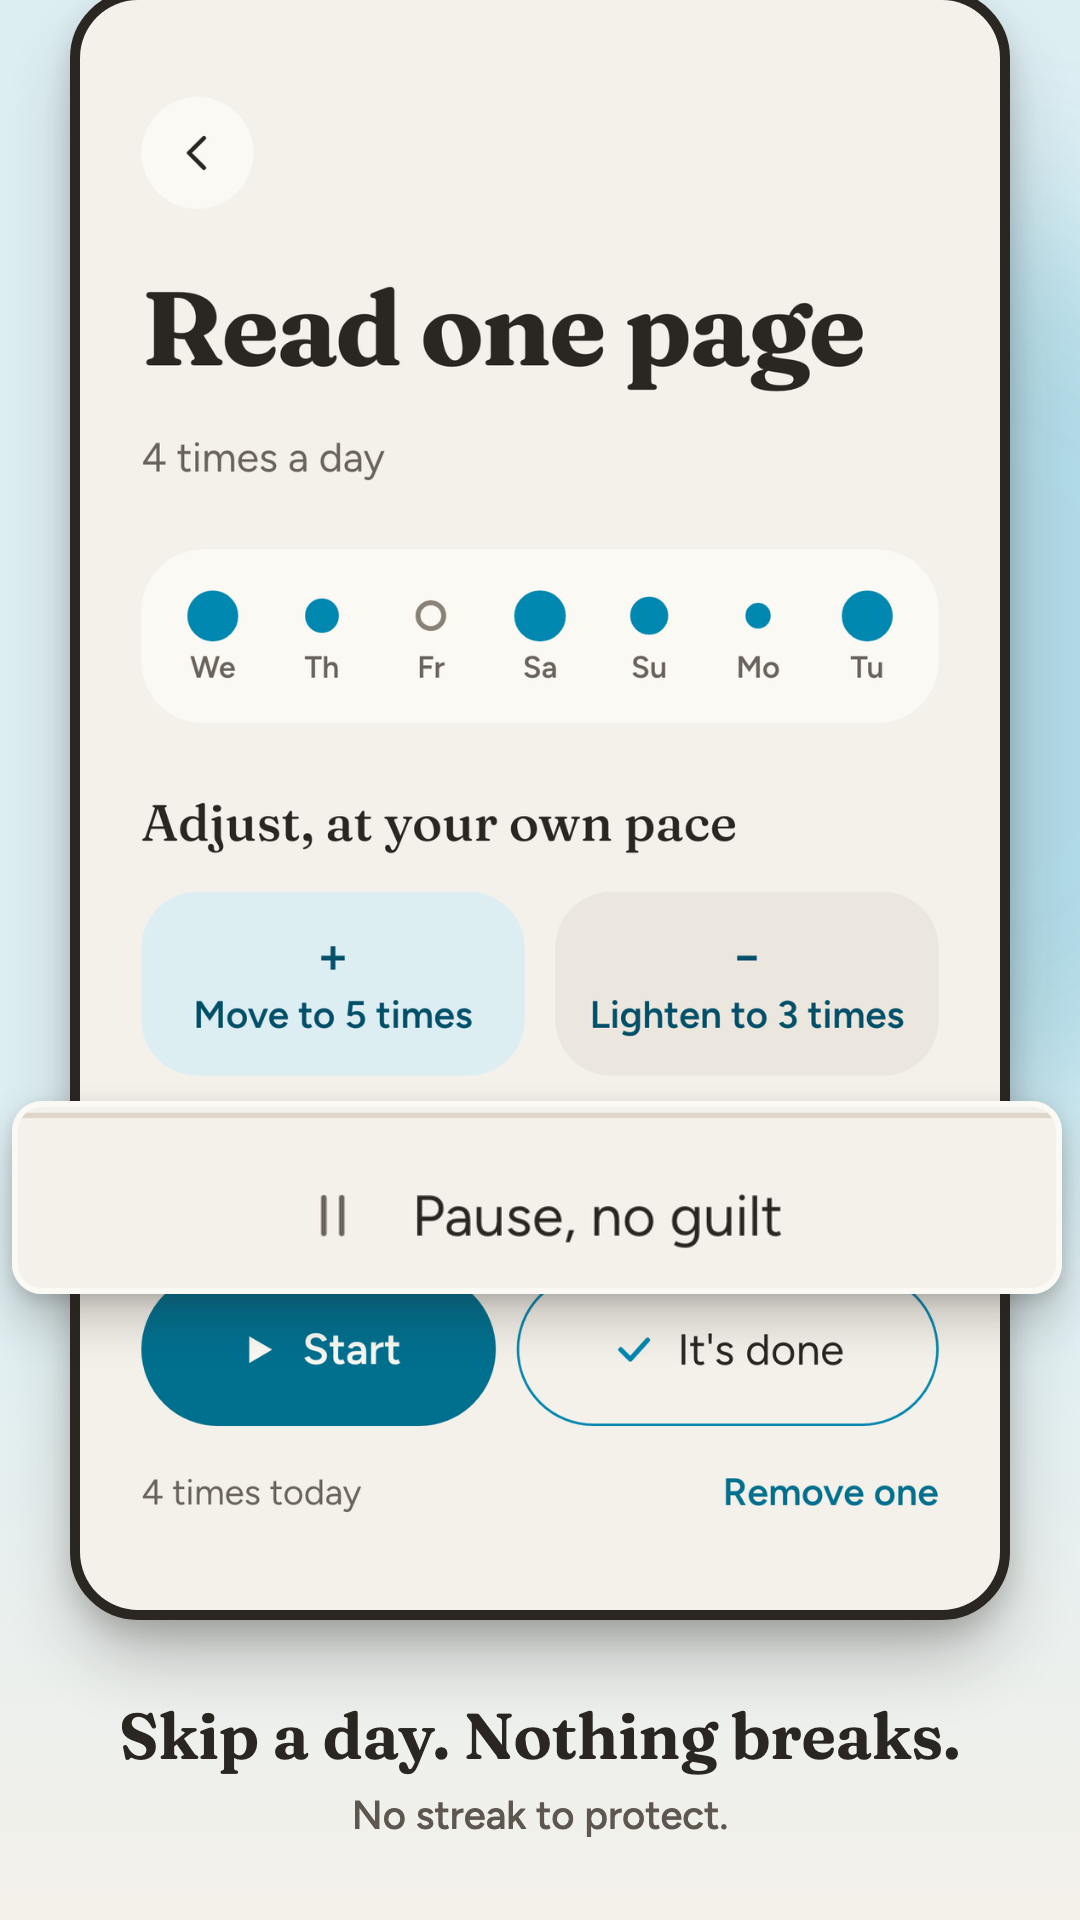
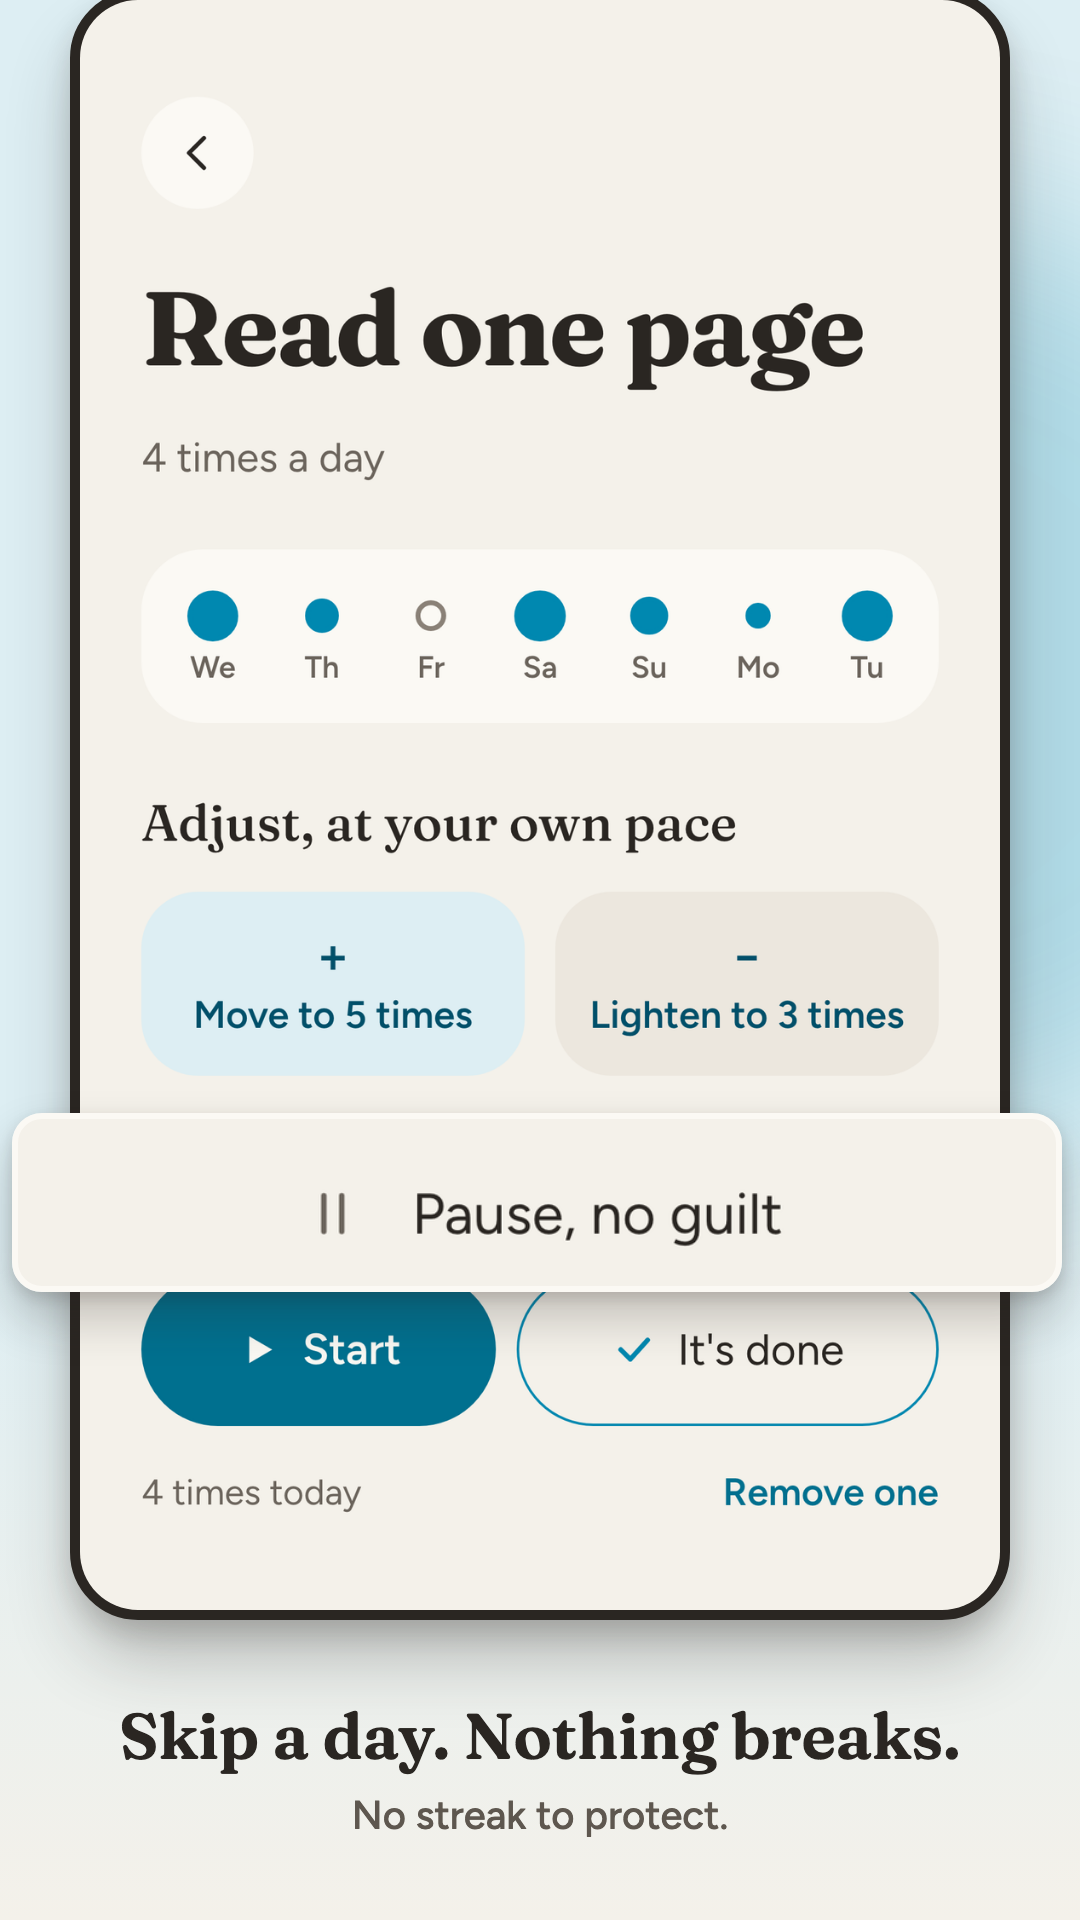
S49: tile tests pin headline measuring, callout lens and bottom shift
The callout clamp is gone; captures and the caption band get their own
ink thresholds; the 02 callout drops the divider line; the subline gets
the same no-break space as the headline.

diff --git a/store/listing/build_store_tiles.py b/store/listing/build_store_tiles.py
@@ -13,9 +13,10 @@ off the bottom edge and shows its status bar; "bottom" puts the caption, centred
 in its band, under the phone, which is cropped by the top edge. `crop` is the
 callout's rectangle in capture pixels and `zoom` its enlargement over the
 phone's own scale. The callout is a lens: it is centred on the source rectangle
-it was cropped from and so hides it (clamped to stay on the tile, clear of the
-caption band). Headlines are measured in Chrome: at most two lines and never a
-lone word on the last one.
+it was cropped from and so hides it. It is never moved: a crop whose callout
+would leave the tile or enter the caption band is refused by the tests.
+Headlines are measured in Chrome: at most two lines and never a lone word on
+the last one.
 
 This script never captures the app. The tiles are the listing's output, the raw
 captures are only their input; `build_screenshots.py` owns the captures.
@@ -55,12 +56,14 @@ SCREEN_RADIUS = 58
 SCREEN_W = PHONE_W - 2 * FRAME
 SCALE = SCREEN_W / CAPTURE_W
 CALLOUT_BORDER = 6
-SHADOW_REACH = 80
-CALLOUT_EDGE = 8
+CALLOUT_SHADOW_DY = 26
+CALLOUT_SHADOW_BLUR = 48
+SHADOW_REACH = CALLOUT_SHADOW_DY + CALLOUT_SHADOW_BLUR
 COPY_SIDE = 48
 VISIBLE_ROWS = (TILE_H - PHONE_TOP - FRAME) * CAPTURE_W // SCREEN_W
 CAPTURE_TIMEOUT = 90
-INK_DEVIATION = 100
+CAPTURE_INK_DEVIATION = 60
+BAND_INK_DEVIATION = 100
 INK_MIN_PIXELS = 3
 
 SAND = "#F4F1EA"
@@ -83,7 +86,7 @@ TILES = {
         Tile("01-aujourdhui", "01-aujourdhui", 0, "Un petit pas suffit.", "Pas de série, pas de pression.",
              "top", (125, 1075, 985, 1303), 1.4),
         Tile("02-detail", "02-detail", 30, "Un jour sans ? Rien ne casse.", "Aucune série à protéger.",
-             "bottom", (102, 1360, 972, 1512), 1.4),
+             "bottom", (102, 1372, 972, 1512), 1.4),
         Tile("03-semaine", "04-semaine", 0, "Votre rythme, pas le nôtre.", "Plus ou moins : vous décidez.",
              "top", (112, 1190, 968, 1392), 1.4),
         Tile("04-rituel", "03-rituel", 0, "Un moment pour vous.", "Arrêter n'est pas échouer.",
@@ -97,7 +100,7 @@ TILES = {
         Tile("01-aujourdhui", "01-aujourdhui", 0, "One small step is enough.", "No streaks, no pressure.",
              "top", (125, 1075, 985, 1303), 1.4),
         Tile("02-detail", "02-detail", 30, "Skip a day. Nothing breaks.", "No streak to protect.",
-             "bottom", (102, 1360, 972, 1512), 1.4),
+             "bottom", (102, 1372, 972, 1512), 1.4),
         Tile("03-semaine", "04-semaine", 0, "Your pace, not ours.", "More or less: you decide.",
              "top", (112, 1280, 968, 1480), 1.4),
         Tile("04-rituel", "03-rituel", 0, "A moment for yourself.", "Stopping isn't failing.",
@@ -138,7 +141,7 @@ MEASURE_HTML = """<!doctype html>
 <div class="copy">{headlines}</div>
 <pre id="out"></pre>
 <script>
-  document.fonts.load("620 96px Fraunces").then(() => {{
+  document.fonts.load("620 64px Fraunces").then(() => {{
     const result = [...document.querySelectorAll(".headline")].map(line => {{
       const tops = [...line.querySelectorAll("span")].map(s => Math.round(s.getBoundingClientRect().top));
       const last = Math.max(...tops);
@@ -226,7 +229,7 @@ TILE_HTML = """<!doctype html>
     border: {callout_border}px solid {card};
     border-radius: 30px;
     background: url('{shot}') no-repeat {callout_bg_x}px {callout_bg_y}px / {callout_bg_w}px auto;
-    box-shadow: 0 26px 48px rgba({shadow}, .24), 0 6px 14px rgba({shadow}, .14);
+    box-shadow: 0 {callout_shadow_dy}px {callout_shadow_blur}px rgba({shadow}, .24), 0 6px 14px rgba({shadow}, .14);
   }}
 </style>
 <div class="galet"></div>
@@ -316,7 +319,7 @@ def capture_path(locale, name):
     return os.path.join(ROOT, "store", "listing", "screenshots", locale, f"{name}-1080x1920.png")
 
 
-def ink_rows(img):
+def ink_rows(img, deviation=CAPTURE_INK_DEVIATION):
     """One bool per row: does a line of content cross it?
 
     A row is ink when at least a few pixels stand far from the row's median
@@ -330,12 +333,12 @@ def ink_rows(img):
     for y in range(h):
         row = px[y * w:(y + 1) * w]
         median = sorted(row)[w // 2]
-        rows.append(sum(abs(p - median) > INK_DEVIATION for p in row) >= INK_MIN_PIXELS)
+        rows.append(sum(abs(p - median) > deviation for p in row) >= INK_MIN_PIXELS)
     return rows
 
 
 def check_text_band(img):
-    ink = ink_rows(img.crop((0, 0, img.size[0], PHONE_TOP)))
+    ink = ink_rows(img.crop((0, 0, img.size[0], PHONE_TOP)), BAND_INK_DEVIATION)
     last = max((y for y, on in enumerate(ink) if on), default=-1)
     if last + 1 > BAND_MAX:
         raise ValueError(f"text band is {last + 1}px tall, the limit is {BAND_MAX}px")
@@ -359,9 +362,7 @@ def callout_rect(tile):
     w = round((x1 - x0) * SCALE * tile.zoom) + 2 * CALLOUT_BORDER
     h = round((y1 - y0) * SCALE * tile.zoom) + 2 * CALLOUT_BORDER
     sx0, sy0, sx1, sy1 = source_rect(tile)
-    low, high = (PHONE_TOP, TILE_H) if tile.layout == "top" else (0, TILE_H - PHONE_TOP)
-    x = min(max((sx0 + sx1 - w) // 2, CALLOUT_EDGE), TILE_W - CALLOUT_EDGE - w)
-    y = min(max((sy0 + sy1 - h) // 2, low + CALLOUT_EDGE), high - CALLOUT_EDGE - h)
+    x, y = (sx0 + sx1 - w) // 2, (sy0 + sy1 - h) // 2
     return (x, y, x + w, y + h)
 
 
@@ -447,9 +448,10 @@ def compose(chrome, locale, tile, work):
         phone_left=PHONE_LEFT, phone_w=PHONE_W, frame=FRAME, screen_w=SCREEN_W,
         crop=round(tile.crop_top * SCALE),
         callout_x=cx0, callout_y=cy0, callout_border=CALLOUT_BORDER,
+        callout_shadow_dy=CALLOUT_SHADOW_DY, callout_shadow_blur=CALLOUT_SHADOW_BLUR,
         callout_w=cx1 - cx0 - 2 * CALLOUT_BORDER, callout_h=cy1 - cy0 - 2 * CALLOUT_BORDER,
         callout_bg_w=round(CAPTURE_W * zoomed), callout_bg_x=-round(x0 * zoomed), callout_bg_y=-round(y0 * zoomed),
-        headline=html_escape.escape(typeset(headline)), subline=html_escape.escape(subline),
+        headline=html_escape.escape(typeset(headline)), subline=html_escape.escape(typeset(subline)),
         **LAYOUTS[tile.layout],
     )
 
@@ -489,7 +491,7 @@ def main():
         check_headline_lines(headline, lines, last_words)
 
     for locale, tiles in TILES.items():
-        work =os.path.join(WORK, locale)
+        work = os.path.join(WORK, locale)
         os.makedirs(work, exist_ok=True)
         os.makedirs(os.path.join(OUT, locale), exist_ok=True)
         for tile in tiles:

diff --git a/store/listing/test_build_store_tiles.py b/store/listing/test_build_store_tiles.py
@@ -1,5 +1,6 @@
 import importlib.util
 import os
+import re
 import tempfile
 import unittest
 
@@ -143,6 +144,46 @@ class CalloutsHideTheirSource(unittest.TestCase):
         self.assertEqual(t.PHONE_TOP + t.FRAME + round(200 * t.SCALE), y0)
         self.assertEqual((round(200 * t.SCALE), round(200 * t.SCALE)), (x1 - x0, y1 - y0))
 
+    def test_the_source_of_a_bottom_tile_sits_at_the_top_edge_shifted_up_by_its_crop_top(self):
+        t = load()
+        tile = t.Tile("x", "c", 30, "H", "s", "bottom", (100, 200, 300, 400), 1.5)
+        x0, y0, x1, y1 = t.source_rect(tile)
+        self.assertEqual(t.PHONE_LEFT + t.FRAME + round(100 * t.SCALE), x0)
+        self.assertEqual(round((200 - 30) * t.SCALE), y0)
+        self.assertEqual((round(200 * t.SCALE), round(200 * t.SCALE)), (x1 - x0, y1 - y0))
+
+    def test_a_callout_near_the_tile_edge_stays_centred_on_its_source(self):
+        t = load()
+        tile = t.Tile("x", "c", 0, "H", "s", "top", (0, 0, 1080, 200), 1.4)
+        sx0, sy0, sx1, sy1 = t.source_rect(tile)
+        cx0, cy0, cx1, cy1 = t.callout_rect(tile)
+        self.assertAlmostEqual((sx0 + sx1) / 2, (cx0 + cx1) / 2, delta=1)
+        self.assertAlmostEqual((sy0 + sy1) / 2, (cy0 + cy1) / 2, delta=1)
+
+    def test_the_02_callout_top_edge_shows_the_card_background_not_the_divider(self):
+        t = load()
+        for locale in ("fr", "en"):
+            tile = next(x for x in t.TILES[locale] if x.name == "02-detail")
+            with self.subTest(locale=locale):
+                x0, y0, x1, _ = tile.crop
+                gray = Image.open(t.capture_path(locale, tile.capture)).convert("L")
+                for y in range(y0, y0 + 10):
+                    margin = gray.getpixel((50, y))
+                    worst = max(abs(gray.getpixel((x, y)) - margin) for x in range(x0, x1))
+                    self.assertLessEqual(worst, 4, (y, worst))
+
+
+class ChromeMeasuresLineCounts(unittest.TestCase):
+    def test_a_sixteen_word_string_runs_on_at_least_three_lines(self):
+        t = load()
+        [(lines, _)] = t.measure_headlines(t.store_module().CHROME, [" ".join(["mot"] * 16)])
+        self.assertGreaterEqual(lines, 3)
+
+    def test_a_two_line_headline_reports_two_lines_and_the_words_of_its_last_line(self):
+        t = load()
+        probe = "One small step is enough for you today."
+        self.assertEqual([(2, 4)], t.measure_headlines(t.store_module().CHROME, [probe]))
+
 
 class ScreenBox(unittest.TestCase):
     def test_top_layout_looks_below_the_status_bar_down_to_the_tile_edge(self):
@@ -215,6 +256,13 @@ class TextBandStaysWithinItsLimit(unittest.TestCase):
         t = load()
         with self.assertRaises(ValueError):
             t.check_text_band(sand_with_line(t.BAND_MAX - 84, t.BAND_MAX + 1))
+
+    def test_a_faint_grey_is_ink_in_a_capture_but_not_a_phone_shadow_in_the_text_band(self):
+        t = load()
+        shadow = Image.new("RGB", (1080, 1920), SAND)
+        shadow.paste((162, 160, 155), (100, 250, 500, t.BAND_MAX + 10))
+        self.assertTrue(t.ink_rows(shadow)[260])
+        t.check_text_band(shadow)
 
 
 class TheBleedNeverCutsALineOfText(unittest.TestCase):
@@ -295,6 +343,32 @@ class ComposeRefusesABlankCapture(unittest.TestCase):
             self.assertEqual([], os.listdir(os.path.join(tmp, "out", "fr")))
 
 
+def composed_page(t, locale, tile):
+    """The tile's HTML as compose() hands it to Chrome, with Chrome stubbed out."""
+    with tempfile.TemporaryDirectory() as tmp:
+        os.makedirs(os.path.join(tmp, "out", locale))
+        t.OUT = os.path.join(tmp, "out")
+        t.run_chrome = lambda chrome, args, raw, label: Image.new(
+            "RGB", (t.TILE_W, t.TILE_H), SAND
+        ).save(raw)
+        t.compose("chrome", locale, tile, tmp)
+        with open(os.path.join(tmp, f"{tile.name}-tile.html"), encoding="utf-8") as f:
+            return f.read()
+
+
+class ComposedPage(unittest.TestCase):
+    def test_the_shadow_reach_is_the_callout_css_shadow_offset_plus_blur(self):
+        t = load()
+        page = composed_page(t, "fr", t.TILES["fr"][0])
+        dy, blur = re.search(r"\.callout \{.*?box-shadow: 0 (\d+)px (\d+)px", page, re.S).groups()
+        self.assertEqual(int(dy) + int(blur), t.SHADOW_REACH)
+
+    def test_the_subline_gets_a_no_break_space_before_a_colon_like_the_headline(self):
+        t = load()
+        tile = next(x for x in t.TILES["fr"] if x.name == "03-semaine")
+        self.assertIn('<div class="subline">Plus ou moins : vous décidez.</div>', composed_page(t, "fr", tile))
+
+
 def copy_band(t, tile, image):
     upright = image.transpose(Image.FLIP_TOP_BOTTOM) if tile.layout == "bottom" else image
     return upright.crop((0, 0, t.TILE_W, t.PHONE_TOP))
@@ -308,7 +382,7 @@ def real_tiles(t):
 
 class TheRenderedTiles(unittest.TestCase):
     def ink_span(self, t, tile, image):
-        rows = [y for y, on in enumerate(t.ink_rows(copy_band(t, tile, image))) if on]
+        rows = [y for y, on in enumerate(t.ink_rows(copy_band(t, tile, image), t.BAND_INK_DEVIATION)) if on]
         return rows[0], rows[-1]
 
     def test_top_captions_start_110_to_150_rows_below_the_top_edge_and_end_at_one_height(self):
